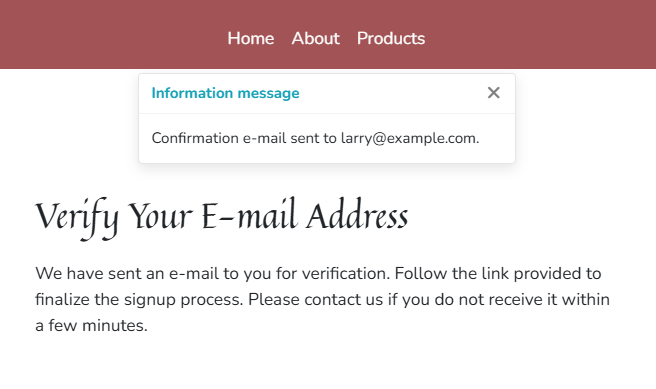
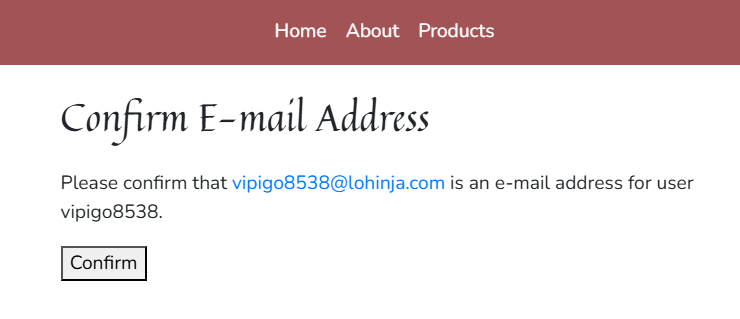
docs: add sign up tests to TESTING.md

diff --git a/docs/TESTING.md b/docs/TESTING.md
@@ -93,12 +93,12 @@ Messages were testing during each of the relevant testing sections below.
 
 ### Sign Up
 
-Note: New user confirmation emails are not implemented as they're outside the project's scope.
-
 |Feature|Expect|Action|Result|Image|
 |---|---|---|---|---|
 |Sign-up validation|When the sign-up form is submitted with missing or invalid data, validation messages are shown and the form is not submitted|Tried submitting the sign-up form with various missing and invalid data|As expected|![Sign-up validation](./images/testing/sign-up-validation.png)|
-|Sign-up message|After successfully submitting the sign-up form, a new user profile is created, the user is redirected to the email confirmation page, an info message is shown and a confirmation email is sent to the command line (sending emails to users has not been implemented yet).|Signed up as a new user|As expected|![Sign up confirmation message](./images/testing/sign-up-confirmation.png)|
+|Verify email page|After submitting the sign-up form, the user is redirected to the verify email page, an info message is shown and a verification email is sent to the user's email address.|Submitted the sign up form|As expected|![Sign up verify email page](./images/testing/sign-up-verify-your-email.png)![Verification email](./images/testing/sign-up-verification-email.png)|
+|Confirm email page|When the user clicks the verify email link, the user is redirected to the confirm email page.|Clicked the link|As expected|![Sign up confirmation page](./images/testing/sign-up-confirmation.png)|
+|Confirm email|When the user clicks the Confirm button, their user profile is created, they are redirected to the sign in page and a success message is shown.|Clicked the Confirm button|As expected|![Sign up success message](./images/testing/sign-up-success.png)|
 
 ### Sign In
 

diff --git a/README.md b/README.md
@@ -677,7 +677,7 @@ The production version of the site has been deployed using [Heroku](https://www.
     - `STRIPE_WH_SECRET` - In your Stripe account, go to Developers / Webhooks and set up a destination. Please refer to the Stripe documentation for more details. The destination will have a webhook secret which you should copy in as the value for this variable.
     - `USE_AWS` - Set this to any non-blank value so the production environment uses AWS for media and static files.
     - `EMAIL_HOST_USER` - The email address used to send SMTP sign-up and purchase confirmation emails.
-    - `EMAIL_HOST_PASS` - The SMTP email address's "app password". Instructions on setting up an email host to send emails is beyond the scope of this document. 
+    - `EMAIL_HOST_PASS` - The SMTP email address's "app password". Setting up an email host to send emails is beyond the scope of this document. 
 1. Add a buildpack for Python.
 1. Connect the Heroku app to your GitHub repository.
 1. Deploy the main branch in Heroku.
